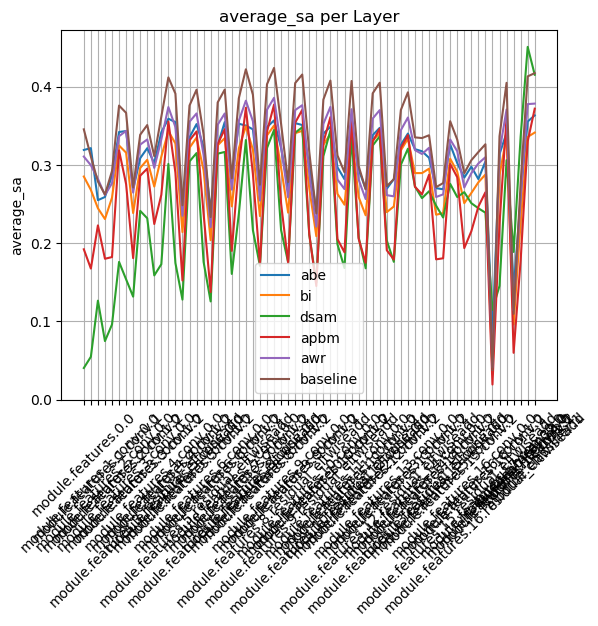
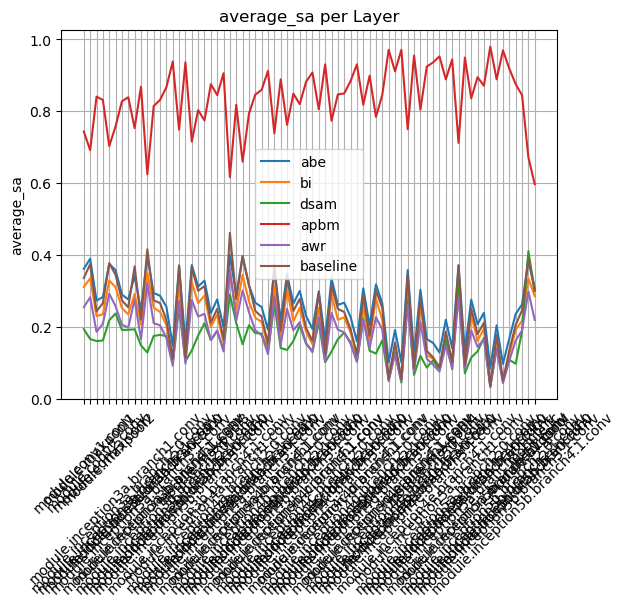
working on graphs

diff --git a/scripts/graph_featuremap.py b/scripts/graph_featuremap.py
@@ -3,25 +3,33 @@ import os
 import lib.graph
 
 if __name__ == "__main__":
-   
+  
     # plot switching activity per layer
-    lib.graph.plot_per_layer("outputs/distiller_mobilenet_v2_8b/output_metrics.json", "outputs/sa_per_layer.png", 
+    lib.graph.plot_per_layer("outputs/distiller_googlenet_8b/output_metrics.json", "outputs/sa_per_layer.png", 
             metric="average_sa", encoding_scheme_filter=["abe","bi","dsam","apbm","awr","baseline"], show_plot=True)
 
+    """
     # plot bitwise transitions
     lib.graph.plot_bitwise("outputs/caffe_alexnet_8b/output_metrics.json", "outputs/bitwise_transitions.png",
             metric="average_sa_per_line", encoding_scheme_filter=["baseline","dsam"], show_plot=True)
+    """
 
     # 
-    lib.graph.plot_per_encoding_scheme("outputs/caffe_alexnet_8b/output_metrics.json", "outputs/sa_per_encoding_scheme.png",
+    lib.graph.plot_per_encoding_scheme("outputs/distiller_densenet121_8b/output_metrics.json", "outputs/sa_per_encoding_scheme.png",
             metric="total_transitions", encoding_scheme_filter=[], show_plot=True)
 
-    lib.graph.plot_transitions_per_samples("outputs/caffe_alexnet_8b/output_metrics.json","outputs/sa_per_encoding_scheme.png", 
+    lib.graph.plot_transitions_per_samples("outputs/distiller_densenet121_8b/output_metrics.json","outputs/sa_per_encoding_scheme.png", 
             encoding_scheme_filter=["rle","rle_dsam","huffman","huffman_bi","baseline"], show_plot=True)
 
     metric_paths = {
             "alexnet"   : "outputs/distiller_alexnet_8b/output_metrics.json",
-            "mobilenet" : "outputs/distiller_mobilenet_v2_8b/output_metrics.json",
+            #"mobilenet" : "outputs/distiller_mobilenet_v2_8b/output_metrics.json",
+            "densenet"  : "outputs/distiller_densenet121_8b/output_metrics.json",
+            #"resnet"    : "outputs/distiller_resnet18_8b/output_metrics.json",
+            "googlenet" : "outputs/distiller_googlenet_8b/output_metrics.json",
+            #"shufflenet": "outputs/distiller_shufflenet_v2_x1_0_8b/output_metrics.json",
+            #"squeezenet": "outputs/distiller_squeezenet1_0_8b/output_metrics.json",
+            #"vgg"       : "outputs/distiller_vgg11_8b/output_metrics.json",
     }
     lib.graph.plot_sa_cr(metric_paths, "outputs/sa_cr.png", encoding_scheme="rle_dsam", show_plot=True)
 

diff --git a/lib/graph.py b/lib/graph.py
@@ -197,6 +197,7 @@ def plot_sa_cr(metric_paths, output_path, encoding_scheme="rle_dsam", show_plot=
     # load metrics for each network
     metrics = {}
     for network in metric_paths:
+        print(network)
         with open(metric_paths[network],"r") as f:
             metrics[network] = json.load(f)
     # outputs
@@ -214,8 +215,8 @@ def plot_sa_cr(metric_paths, output_path, encoding_scheme="rle_dsam", show_plot=
     for network in metrics:
         plt.scatter([encoded[network][0]],[encoded[network][1]])
     plt.xlim([0,0.5])
-    plt.ylim([0,1])
-    plt.yscale("log")
+    #plt.ylim([0,1])
+    #plt.yscale("log")
     plt.title("Total Transitions")
     plt.ylabel("Transitions")
     plt.xlabel("Samples")
